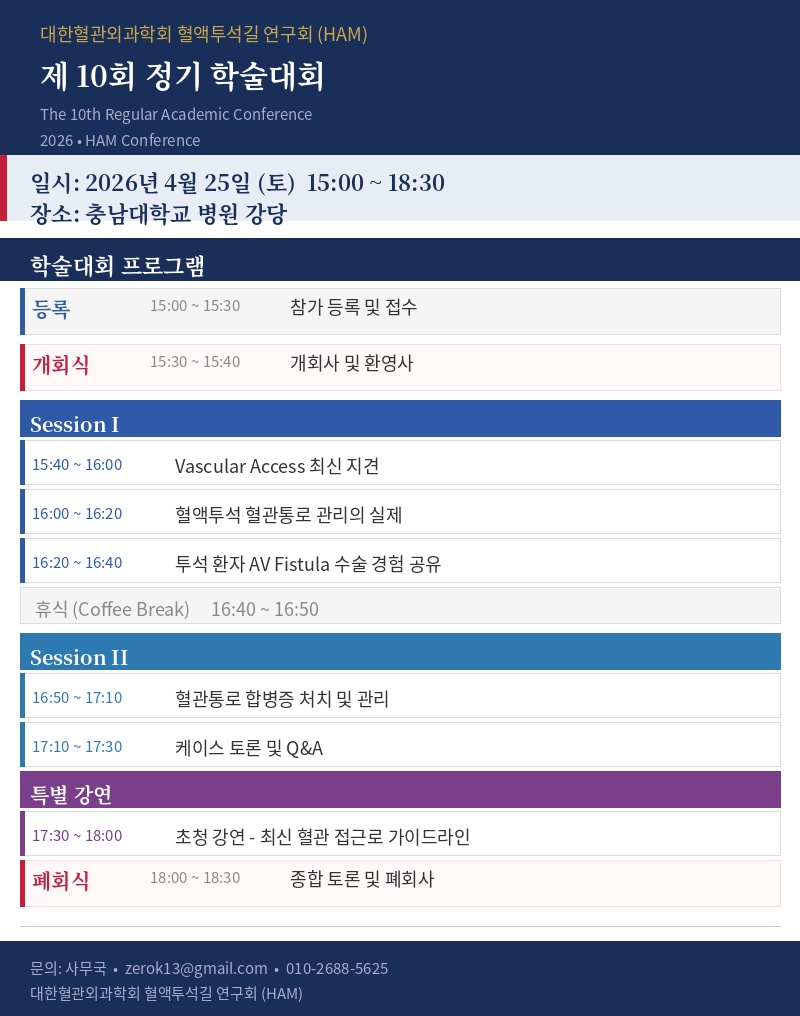
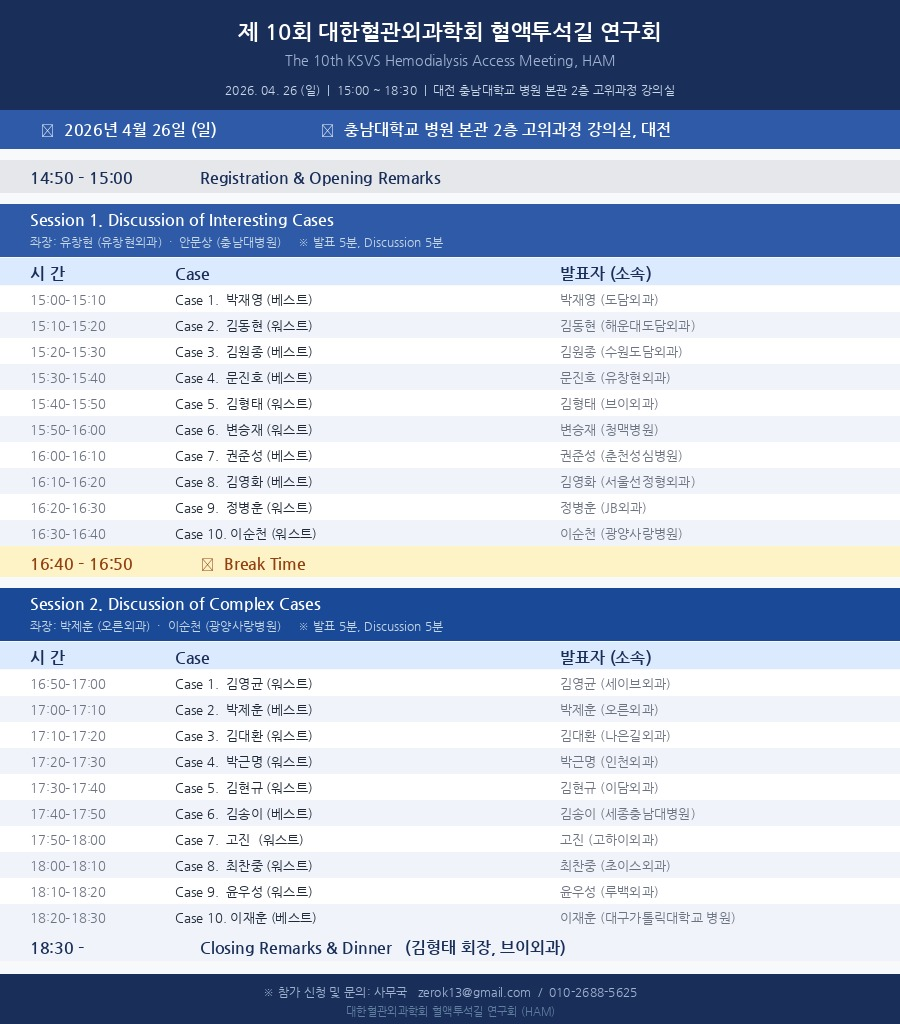
feat: 제 10회 학술대회 전체 프로그램 업데이트 (날짜·장소·20개 케이스 발표)
- 날짜: 2026.04.25(토) → 2026.04.26(일) 수정
- 장소: 충남대학교 병원 강당 → 본관 2층 고위과정 강의실 수정
- 등록 시작: 14:50 (14:50~15:00 Registration & Opening)
- Session 1. Discussion of Interesting Cases (15:00~16:40)
  좌장: 유창현 (유창현외과) · 안문상 (충남대병원)
  10개 케이스: 박재영·김동현·김원종·문진호·김형태·변승재·권준성·김영화·정병훈·이순천
- Break: 16:40~16:50
- Session 2. Discussion of Complex Cases (16:50~18:30)
  좌장: 박제훈 (오른외과) · 이순천 (광양사랑병원)
  10개 케이스: 김영균·박제훈·김대환·박근명·김현규·김송이·고진·최찬중·윤우성·이재훈
- 폐회 및 만찬: 18:30~
- notice id=4, event id=10, conference detail page, 일정 이미지 모두 업데이트

diff --git a/src/app/events/conference/[id]/page.tsx b/src/app/events/conference/[id]/page.tsx
@@ -109,35 +109,132 @@ export default async function ConferenceDetailPage({ params }: PageProps) {
             {event.isUpcoming && event.id === 10 && (
               <div className="mb-8">
                 <h2 className="text-lg font-bold text-[#1a2e5a] mb-4">프로그램</h2>
-                <div className="border rounded-lg overflow-hidden">
-                  <table className="w-full">
-                    <thead className="bg-gray-50">
-                      <tr>
-                        <th className="px-4 py-3 text-left text-sm font-semibold text-[#1a2e5a]">시간</th>
-                        <th className="px-4 py-3 text-left text-sm font-semibold text-[#1a2e5a]">세션</th>
-                        <th className="px-4 py-3 text-left text-sm font-semibold text-[#1a2e5a]">주요 내용</th>
+
+                {/* ── 등록 & 개회 ── */}
+                <div className="border rounded-lg overflow-hidden mb-4">
+                  <table className="w-full text-sm">
+                    <thead>
+                      <tr className="bg-[#1a2e5a] text-white">
+                        <th className="px-4 py-2.5 text-left w-40">시간</th>
+                        <th className="px-4 py-2.5 text-left">내용</th>
+                        <th className="px-4 py-2.5 text-left w-48">발표자</th>
                       </tr>
                     </thead>
                     <tbody className="divide-y">
-                      <tr>
-                        <td className="px-4 py-3 text-sm text-gray-600">15:00 ~ 15:10</td>
-                        <td className="px-4 py-3 text-sm text-gray-800">개회</td>
-                        <td className="px-4 py-3 text-sm text-gray-800">개회사</td>
+                      <tr className="bg-gray-50">
+                        <td className="px-4 py-2.5 text-gray-500 font-mono">14:50 – 15:00</td>
+                        <td className="px-4 py-2.5 text-gray-800 font-medium">Registration &amp; Opening Remarks</td>
+                        <td className="px-4 py-2.5 text-gray-500">—</td>
                       </tr>
-                      <tr>
-                        <td className="px-4 py-3 text-sm text-gray-600">15:10 ~ 16:30</td>
-                        <td className="px-4 py-3 text-sm text-gray-800">Session 1</td>
-                        <td className="px-4 py-3 text-sm text-gray-800">Latest updates in Vascular Access</td>
+                    </tbody>
+                  </table>
+                </div>
+
+                {/* ── Session 1 ── */}
+                <div className="border rounded-lg overflow-hidden mb-4">
+                  <table className="w-full text-sm">
+                    <thead>
+                      <tr className="bg-[#2e5aa7] text-white">
+                        <th colSpan={3} className="px-4 py-2.5 text-left">
+                          Session 1. Discussion of Interesting Cases
+                          <span className="ml-3 font-normal text-blue-100 text-xs">
+                            좌장: 유창현 (유창현외과) · 안문상 (충남대병원)
+                          </span>
+                          <span className="ml-3 font-normal text-blue-200 text-xs">(발표 5분, Discussion 5분)</span>
+                        </th>
                       </tr>
-                      <tr>
-                        <td className="px-4 py-3 text-sm text-gray-600">16:30 ~ 16:50</td>
-                        <td className="px-4 py-3 text-sm text-gray-800">Break</td>
-                        <td className="px-4 py-3 text-sm text-gray-800">Coffee break</td>
+                      <tr className="bg-blue-50">
+                        <th className="px-4 py-2 text-left text-[#1a2e5a] font-semibold w-40">시간</th>
+                        <th className="px-4 py-2 text-left text-[#1a2e5a] font-semibold">발표 제목</th>
+                        <th className="px-4 py-2 text-left text-[#1a2e5a] font-semibold w-48">발표자 (소속)</th>
                       </tr>
-                      <tr>
-                        <td className="px-4 py-3 text-sm text-gray-600">16:50 ~ 18:30</td>
-                        <td className="px-4 py-3 text-sm text-gray-800">Session 2</td>
-                        <td className="px-4 py-3 text-sm text-gray-800">Case discussions & panel</td>
+                    </thead>
+                    <tbody className="divide-y">
+                      {[
+                        ["15:00 – 15:10", "Case 1. 박재영 (베스트)", "박재영 (도담외과)"],
+                        ["15:10 – 15:20", "Case 2. 김동현 (워스트)", "김동현 (해운대도담외과)"],
+                        ["15:20 – 15:30", "Case 3. 김원종 (베스트)", "김원종 (수원도담외과)"],
+                        ["15:30 – 15:40", "Case 4. 문진호 (베스트)", "문진호 (유창현외과)"],
+                        ["15:40 – 15:50", "Case 5. 김형태 (워스트)", "김형태 (브이외과)"],
+                        ["15:50 – 16:00", "Case 6. 변승재 (워스트)", "변승재 (청맥병원)"],
+                        ["16:00 – 16:10", "Case 7. 권준성 (베스트)", "권준성 (춘천성심병원)"],
+                        ["16:10 – 16:20", "Case 8. 김영화 (베스트)", "김영화 (서울선정형외과)"],
+                        ["16:20 – 16:30", "Case 9. 정병훈 (워스트)", "정병훈 (JB외과)"],
+                        ["16:30 – 16:40", "Case 10. 이순천 (워스트)", "이순천 (광양사랑병원)"],
+                      ].map(([time, title, presenter], i) => (
+                        <tr key={i} className={i % 2 === 0 ? "bg-white" : "bg-gray-50"}>
+                          <td className="px-4 py-2.5 text-gray-500 font-mono">{time}</td>
+                          <td className="px-4 py-2.5 text-gray-800">{title}</td>
+                          <td className="px-4 py-2.5 text-gray-600">{presenter}</td>
+                        </tr>
+                      ))}
+                    </tbody>
+                  </table>
+                </div>
+
+                {/* ── Break ── */}
+                <div className="border rounded-lg overflow-hidden mb-4">
+                  <table className="w-full text-sm">
+                    <tbody>
+                      <tr className="bg-amber-50">
+                        <td className="px-4 py-2.5 text-gray-500 font-mono w-40">16:40 – 16:50</td>
+                        <td className="px-4 py-2.5 text-amber-700 font-medium">☕ Break Time</td>
+                        <td className="px-4 py-2.5 w-48" />
+                      </tr>
+                    </tbody>
+                  </table>
+                </div>
+
+                {/* ── Session 2 ── */}
+                <div className="border rounded-lg overflow-hidden mb-4">
+                  <table className="w-full text-sm">
+                    <thead>
+                      <tr className="bg-[#1a4a97] text-white">
+                        <th colSpan={3} className="px-4 py-2.5 text-left">
+                          Session 2. Discussion of Complex Cases
+                          <span className="ml-3 font-normal text-blue-100 text-xs">
+                            좌장: 박제훈 (오른외과) · 이순천 (광양사랑병원)
+                          </span>
+                          <span className="ml-3 font-normal text-blue-200 text-xs">(발표 5분, Discussion 5분)</span>
+                        </th>
+                      </tr>
+                      <tr className="bg-blue-50">
+                        <th className="px-4 py-2 text-left text-[#1a2e5a] font-semibold w-40">시간</th>
+                        <th className="px-4 py-2 text-left text-[#1a2e5a] font-semibold">발표 제목</th>
+                        <th className="px-4 py-2 text-left text-[#1a2e5a] font-semibold w-48">발표자 (소속)</th>
+                      </tr>
+                    </thead>
+                    <tbody className="divide-y">
+                      {[
+                        ["16:50 – 17:00", "Case 1. 김영균 (워스트)", "김영균 (세이브외과)"],
+                        ["17:00 – 17:10", "Case 2. 박제훈 (베스트)", "박제훈 (오른외과)"],
+                        ["17:10 – 17:20", "Case 3. 김대환 (워스트)", "김대환 (나은길외과)"],
+                        ["17:20 – 17:30", "Case 4. 박근명 (워스트)", "박근명 (인천외과)"],
+                        ["17:30 – 17:40", "Case 5. 김현규 (워스트)", "김현규 (이담외과)"],
+                        ["17:40 – 17:50", "Case 6. 김송이 (베스트)", "김송이 (세종충남대병원)"],
+                        ["17:50 – 18:00", "Case 7. 고진 (워스트)", "고진 (고하이외과)"],
+                        ["18:00 – 18:10", "Case 8. 최찬중 (워스트)", "최찬중 (초이스외과)"],
+                        ["18:10 – 18:20", "Case 9. 윤우성 (워스트)", "윤우성 (루백외과)"],
+                        ["18:20 – 18:30", "Case 10. 이재훈 (베스트)", "이재훈 (대구가톨릭대학교 병원)"],
+                      ].map(([time, title, presenter], i) => (
+                        <tr key={i} className={i % 2 === 0 ? "bg-white" : "bg-gray-50"}>
+                          <td className="px-4 py-2.5 text-gray-500 font-mono">{time}</td>
+                          <td className="px-4 py-2.5 text-gray-800">{title}</td>
+                          <td className="px-4 py-2.5 text-gray-600">{presenter}</td>
+                        </tr>
+                      ))}
+                    </tbody>
+                  </table>
+                </div>
+
+                {/* ── 폐회 & 만찬 ── */}
+                <div className="border rounded-lg overflow-hidden">
+                  <table className="w-full text-sm">
+                    <tbody>
+                      <tr className="bg-[#1a2e5a]/5">
+                        <td className="px-4 py-2.5 text-gray-500 font-mono w-40">18:30 –</td>
+                        <td className="px-4 py-2.5 text-[#1a2e5a] font-medium">Closing Remarks &amp; Dinner</td>
+                        <td className="px-4 py-2.5 text-gray-600 w-48">김형태 회장 (브이외과)</td>
                       </tr>
                     </tbody>
                   </table>

diff --git a/src/lib/data.ts b/src/lib/data.ts
@@ -45,46 +45,61 @@ export interface HistoryItem {
 export const notices: Notice[] = [
   {
     id: 4,
-    title: "[공지] 제 10회 대한혈관외과학회 혈액투석길 연구회 개최 안내",
+    title: "[공지] 제 10회 대한혈관외과학회 혈액투석길 연구회 개최 안내 (The 10th KSVS HAM)",
     date: "2026.03.24",
     content: `제 10회 대한혈관외과학회 혈액투석길 연구회를 아래와 같이 개최하오니 많은 참석 바랍니다.
 
-■ 행사명: 제 10회 대한혈관외과학회 혈액투석길 연구회 (정기 학술대회)
-■ 일  시: 2026년 4월 25일 (토) 15:00 ~ 18:30
-■ 장  소: 충남대학교 병원 강당
+■ 행사명: 제 10회 대한혈관외과학회 혈액투석길 연구회
+           (The 10th KSVS Hemodialysis Access Meeting, HAM)
+■ 일  시: 2026년 04월 26일 (일) 15:00 ~ 18:30
+■ 장  소: 대전 충남대학교 병원 본관 2층 고위과정 강의실
 
 
 ━━━━━━━━━━━━━━━━━━━━━━━━━━━━━━━━━━━
                    학술대회 프로그램
 ━━━━━━━━━━━━━━━━━━━━━━━━━━━━━━━━━━━
 
-▶ 등록
-  15:00 ~ 15:30  참가 등록
+▶ 등록 및 개회
+  14:50 ~ 15:00  Registration & Opening Remarks
 
-▶ 개회식
-  15:30 ~ 15:40  개회사 및 환영사
+▶ Session 1. Discussion of Interesting Cases
+  좌장: 유창현 (유창현외과), 안문상 (충남대병원)
+  (발표 5분, Discussion 5분)
 
-▶ Session I  |  좌장: 미정
-  15:40 ~ 16:00  발표 1 - Vascular Access 최신 지견
-  16:00 ~ 16:20  발표 2 - 혈액투석 혈관통로 관리의 실제
-  16:20 ~ 16:40  발표 3 - 투석 환자 AV Fistula 수술 경험 공유
+  15:00 ~ 15:10  Case 1.  박재영 (베스트) — 박재영 (도담외과)
+  15:10 ~ 15:20  Case 2.  김동현 (워스트) — 김동현 (해운대도담외과)
+  15:20 ~ 15:30  Case 3.  김원종 (베스트) — 김원종 (수원도담외과)
+  15:30 ~ 15:40  Case 4.  문진호 (베스트) — 문진호 (유창현외과)
+  15:40 ~ 15:50  Case 5.  김형태 (워스트) — 김형태 (브이외과)
+  15:50 ~ 16:00  Case 6.  변승재 (워스트) — 변승재 (청맥병원)
+  16:00 ~ 16:10  Case 7.  권준성 (베스트) — 권준성 (춘천성심병원)
+  16:10 ~ 16:20  Case 8.  김영화 (베스트) — 김영화 (서울선정형외과)
+  16:20 ~ 16:30  Case 9.  정병훈 (워스트) — 정병훈 (JB외과)
+  16:30 ~ 16:40  Case 10. 이순천 (워스트) — 이순천 (광양사랑병원)
 
-  16:40 ~ 16:50  휴식 (Coffee Break)
+  16:40 ~ 16:50  Break Time
 
-▶ Session II  |  좌장: 미정
-  16:50 ~ 17:10  발표 4 - 혈관통로 합병증 처치 및 관리
-  17:10 ~ 17:30  발표 5 - 케이스 토론 및 Q&A
+▶ Session 2. Discussion of Complex Cases
+  좌장: 박제훈 (오른외과), 이순천 (광양사랑병원)
+  (발표 5분, Discussion 5분)
 
-▶ 특별 강연
-  17:30 ~ 18:00  초청 강연 - 최신 혈관 접근로 가이드라인 업데이트
+  16:50 ~ 17:00  Case 1.  김영균 (워스트) — 김영균 (세이브외과)
+  17:00 ~ 17:10  Case 2.  박제훈 (베스트) — 박제훈 (오른외과)
+  17:10 ~ 17:20  Case 3.  김대환 (워스트) — 김대환 (나은길외과)
+  17:20 ~ 17:30  Case 4.  박근명 (워스트) — 박근명 (인천외과)
+  17:30 ~ 17:40  Case 5.  김현규 (워스트) — 김현규 (이담외과)
+  17:40 ~ 17:50  Case 6.  김송이 (베스트) — 김송이 (세종충남대병원)
+  17:50 ~ 18:00  Case 7.  고진  (워스트) — 고진 (고하이외과)
+  18:00 ~ 18:10  Case 8.  최찬중 (워스트) — 최찬중 (초이스외과)
+  18:10 ~ 18:20  Case 9.  윤우성 (워스트) — 윤우성 (루백외과)
+  18:20 ~ 18:30  Case 10. 이재훈 (베스트) — 이재훈 (대구가톨릭대학교 병원)
 
-▶ 폐회식
-  18:00 ~ 18:30  종합 토론 및 폐회사
+▶ 폐회 및 만찬
+  18:30          Closing Remarks & Dinner — 김형태 회장 (브이외과)
 
 
 ━━━━━━━━━━━━━━━━━━━━━━━━━━━━━━━━━━━
 
-※ 상세 프로그램은 추후 업데이트될 수 있습니다.
 ※ 참가 신청 및 문의: 사무국 (zerok13@gmail.com / 010-2688-5625)
 
 많은 관심과 참여 부탁드립니다.`,
@@ -126,11 +141,11 @@ export const notices: Notice[] = [
 export const events: Event[] = [
   {
     id: 10,
-    title: "제 10회 대한혈관외과학회 혈액투석길 연구회",
-    date: "2026.04.25",
-    location: "충남대학교 병원 강당",
-    time: "15:00 ~ 18:30",
-    description: "제10회 HAM 정기 학술대회",
+    title: "제 10회 대한혈관외과학회 혈액투석길 연구회 (The 10th KSVS HAM)",
+    date: "2026.04.26",
+    location: "대전 충남대학교 병원 본관 2층 고위과정 강의실",
+    time: "15:00 ~ 18:30 (등록 14:50)",
+    description: "제 10회 대한혈관외과학회 혈액투석길 연구회 (The 10th KSVS Hemodialysis Access Meeting, HAM)\n\nSession 1. Discussion of Interesting Cases\n좌장: 유창현 (유창현외과), 안문상 (충남대병원)\n\nSession 2. Discussion of Complex Cases\n좌장: 박제훈 (오른외과), 이순천 (광양사랑병원)\n\n각 세션은 10개의 케이스 발표 (발표 5분 + 토론 5분) 로 구성됩니다.",
     isUpcoming: true,
     type: "정기 학술대회",
   },
